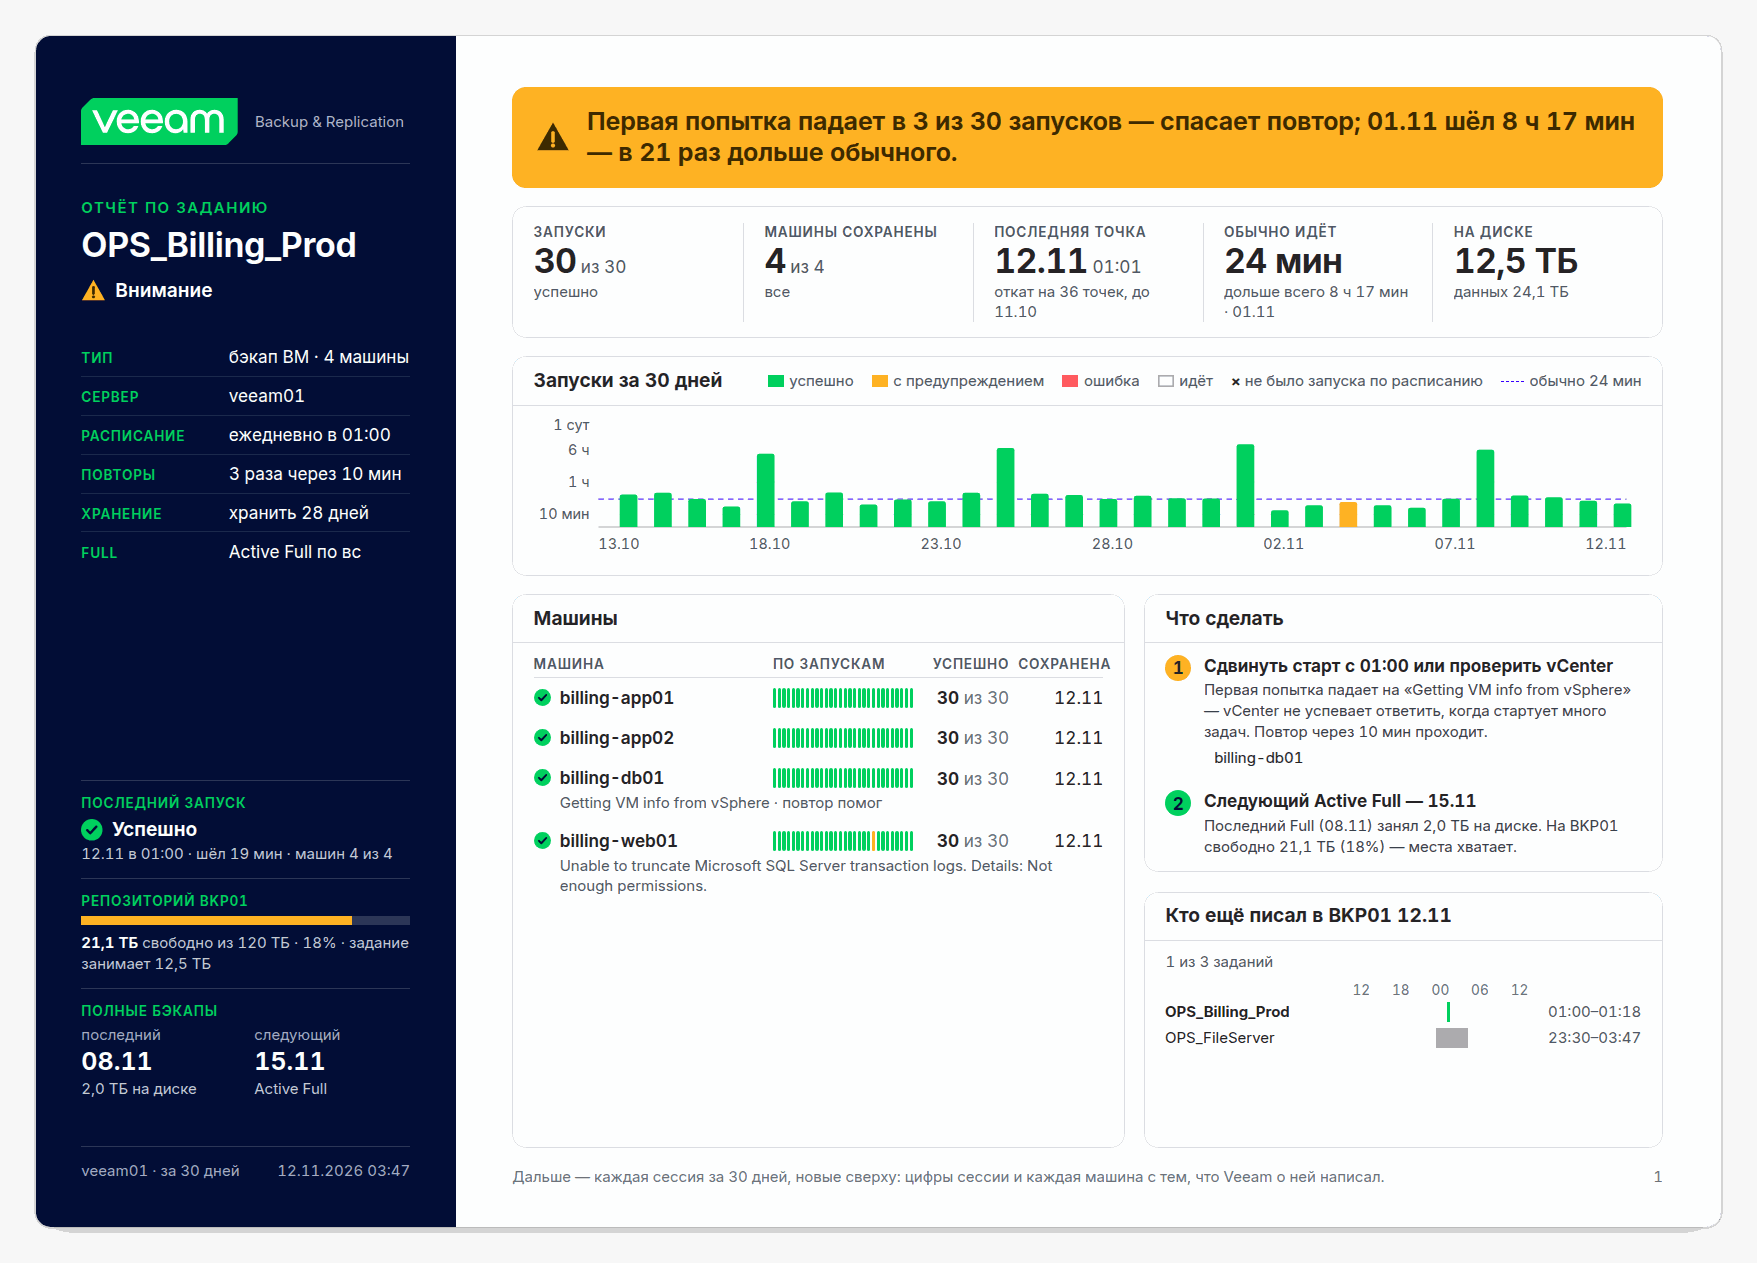
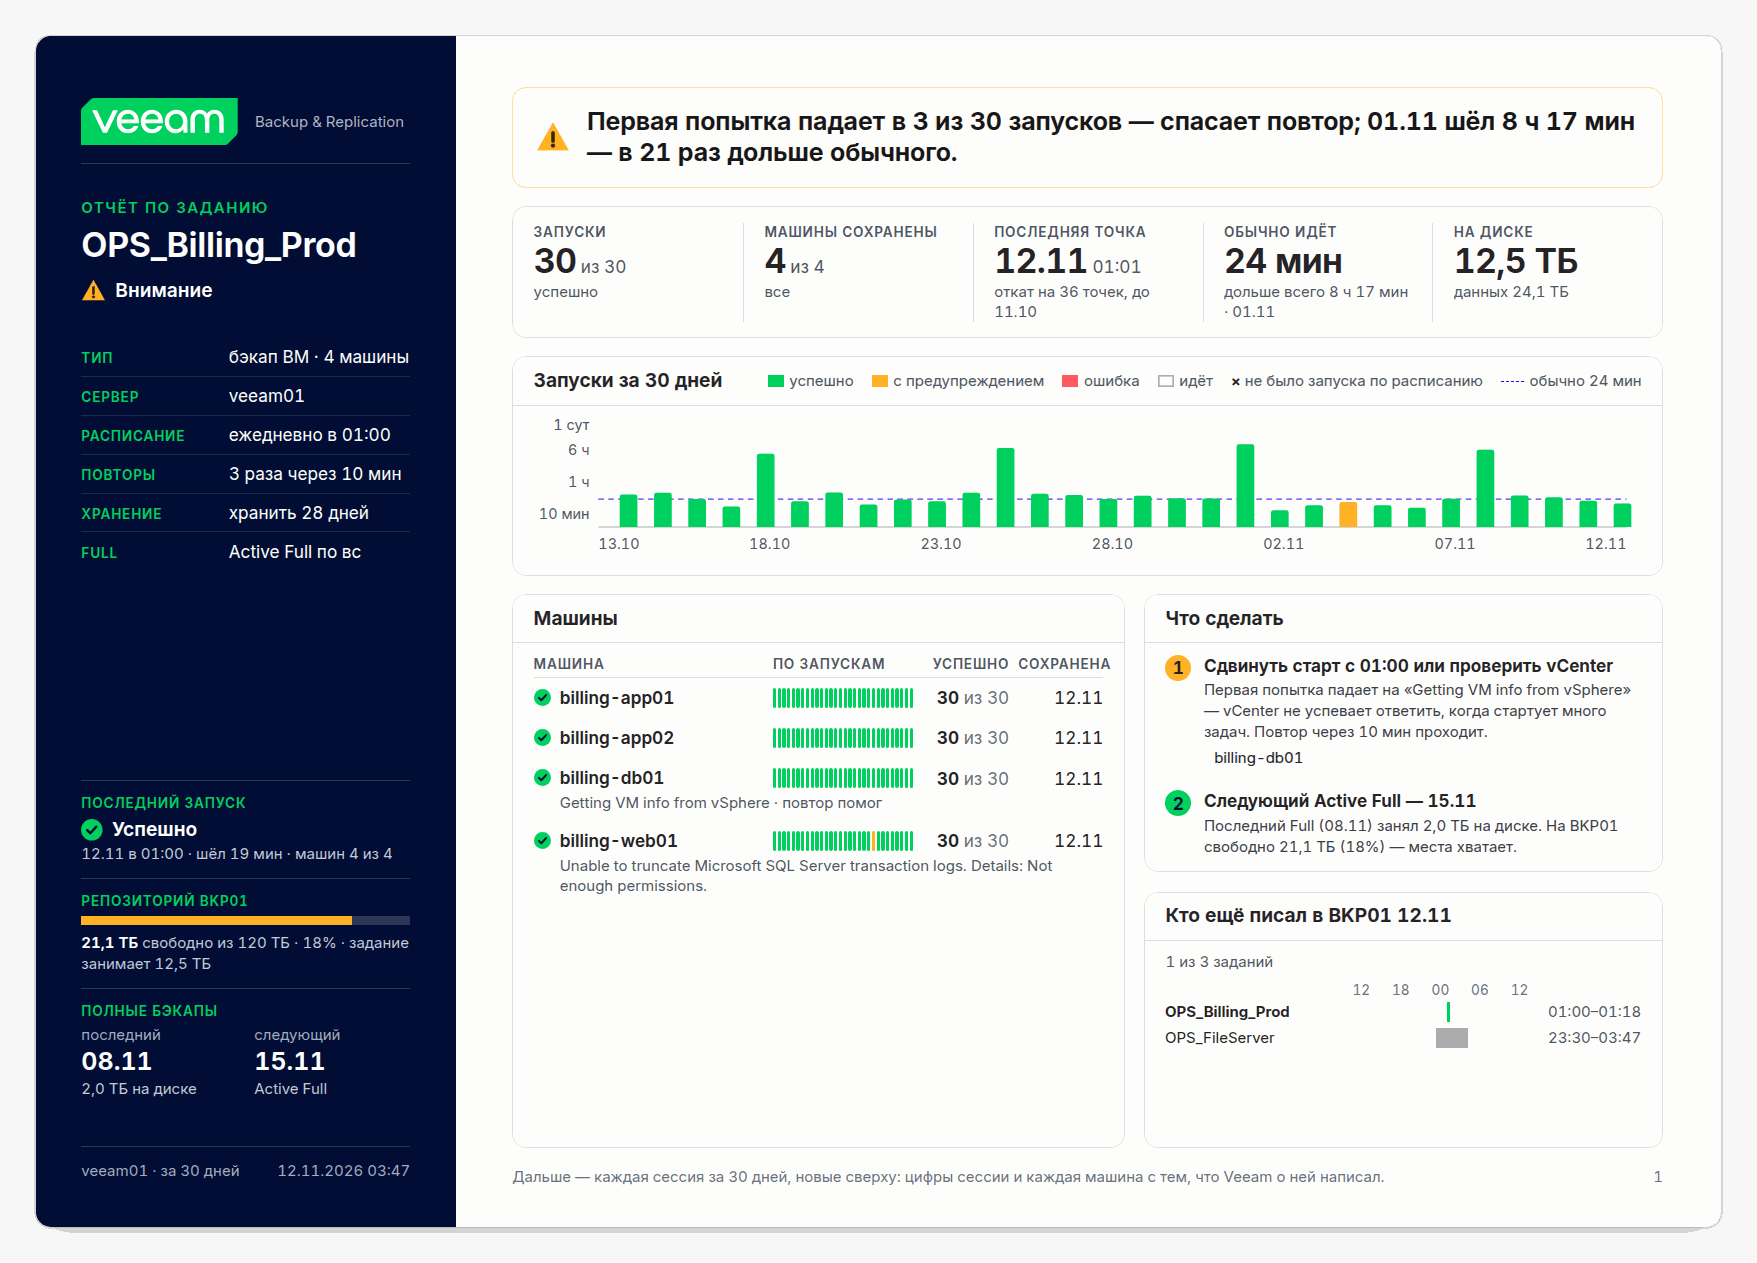
Show the settled verdict colours in the README and the changelog
The pictures of the job's and the points' reports carry a warning's
verdict, now dark words on a pale amber; drawn again by
`npm run screenshots`, which left the other nine as they were.

Changed region(s): [[0.2766, 0.0618, 0.9528, 0.1544]]

diff --git a/CHANGELOG.md b/CHANGELOG.md
@@ -28,7 +28,7 @@ The bot speaks Russian, so the quotes of its messages and buttons below stay in 
 ### Changed
 
 - The README shows the bot as it is now: the alerts and the live topics, a job's card with its report button, the menu, and the first page of each of the three PDF reports, in place of the `/points` message they replaced. `npm run screenshots` draws them again from the invented estate in `scripts/screenshots/`, with the bot's own code, so they no longer have to be made by hand.
-- The three PDF reports — a job, its points, the repositories — are set in one scale of type with darker small print, and print what they cut short: every step of «Что сделать» (what to do) with its whole detail, and a machine's error at up to four lines on the points page. The verdict at the head of each, and the head of every session, is a card of the result's colour with its mark on it: Veeam's green, amber or coral. A session's block is kept on one page.
+- The three PDF reports — a job, its points, the repositories — are set in one scale of type with darker small print, and print what they cut short: every step of «Что сделать» (what to do) with its whole detail, and a machine's error at up to four lines on the points page. The verdict at the head of each, and the head of every session, is a card in the result's colour with its mark on it: white on Veeam's green for a success and on a deep red for an error, dark words on a pale amber for a warning. A session's block is kept on one page.
 - The Job report's first page prints a machine's name whole, on two lines where it needs them, and what Veeam said of the machine on a row of its own beneath it: on a job run every day the bars of its month had left the name no room at all. It lists as many machines as their rows fit, eight at most, and counts the rest as in the sessions. The card under «Что сделать» shows the rows the steps leave room for, whole, and «Кто ещё писал» (who else wrote) has its hours above them, where a row that does not fit cannot take them away.
 - The Points report is drawn in the look of the Job report and the Repository report: the dark navy panel under Veeam's logo with the job, how it stands and what it is set to do; what is wrong in one band; a Full navy and an increment Veeam's green on the calendar. Its first page holds 13 machines where it held 8.
 - The Repository report's «Кто пишет и когда» tells a job's increment from its Full: «Инкр.» and «Full» stand where «Обычно» stood, each the usual length of such a run, beside «Макс». A run is a Full where most of the restore points it left are full ones; on a Veeam that does not say, where it began on a day the job takes its Full on. A job with neither shows the usual length of any run, dimmed.
